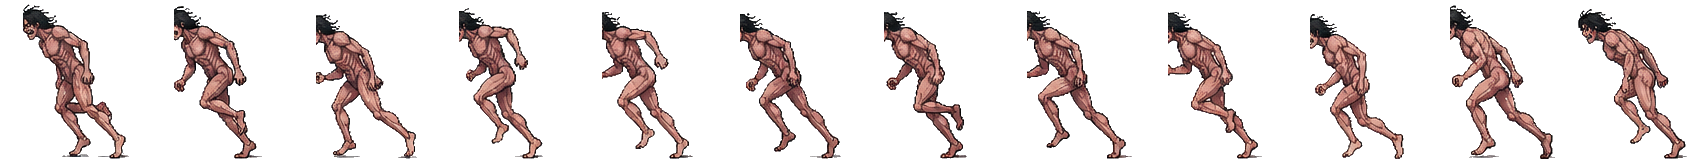
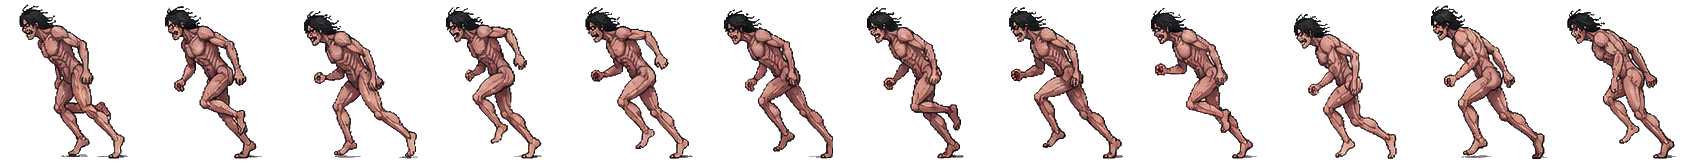
Run as the sharper titan, and cut titan frames along their seams
The Attack Titan now runs with the titan sheet's Eren, flipped to face right,
instead of the much smaller transformation sheet; smoke and emerging still come
from that one. Titan frames are cut at the emptiest column between two frames
instead of fixed midpoints, which sliced hair and fists.

diff --git a/src/client/render_shift.cpp b/src/client/render_shift.cpp
@@ -50,20 +50,21 @@ void Renderer::drawShift(int player_num, const PlayerState &player, bool is_me)
 {
     const PlayerAnim &state = player_anims[player_num];
     float time = state.form_clock.getElapsedTime().asSeconds();
-    const Animation *anim = &shift_sprite.run;
+    float center_x = display_positions[player_num].x + TITAN_FORM_WIDTH / 2;
+    uint8_t alpha = is_me ? 255 : 215;
 
     if (player.form == Form::Shifting) {
-        anim = time < shift_sprite.smoke.duration() ? &shift_sprite.smoke : &shift_sprite.emerge;
-        time = anim == &shift_sprite.smoke ? time : time - shift_sprite.smoke.duration();
-    } else {
-        time = run_phase;
-        // Heavy steps
-        if (static_cast<int>(time * 2.2f) != static_cast<int>((time - 1 / 60.f) * 2.2f))
-            shake = std::max(shake, is_me ? 0.08f : 0.04f);
+        const Animation &smoke = shift_sprite.smoke;
+        const Animation &anim = time < smoke.duration() ? smoke : shift_sprite.emerge;
+        float anim_time = &anim == &smoke ? time : time - smoke.duration();
+        drawShiftFrame(shift_sprite, anim, anim.frameAt(anim_time), center_x, alpha);
+        return;
     }
 
-    float center_x = display_positions[player_num].x + TITAN_FORM_WIDTH / 2;
-    drawShiftFrame(*anim, anim->frameAt(time), center_x, is_me ? 255 : 215);
+    // Heavy steps; the titan sheet runs to the left, flipped to run with you
+    if (static_cast<int>(run_phase * 2.2f) != static_cast<int>((run_phase - 1 / 60.f) * 2.2f))
+        shake = std::max(shake, is_me ? 0.08f : 0.04f);
+    drawShiftFrame(eren_titan, eren_titan.run, eren_titan.run.frameAt(run_phase), center_x, alpha, true);
 }
 
 // Bursting out: the smoke the titan left shrinks and fades where it stood
@@ -76,20 +77,22 @@ void Renderer::drawSteamPuff(int player_num)
     if (t >= 1)
         return;
     int frame = static_cast<int>((smoke.frames - 1) * (1 - t));
-    drawShiftFrame(smoke, frame, state.smoke_x, static_cast<uint8_t>(230 * (1 - t)));
+    drawShiftFrame(shift_sprite, smoke, frame, state.smoke_x, static_cast<uint8_t>(230 * (1 - t)));
 }
 
-void Renderer::drawShiftFrame(const Animation &anim, int frame, float center_x, uint8_t alpha)
+// Feet on the floor, `sheet`'s standing height scaled to the titan form's
+void Renderer::drawShiftFrame(const Character &sheet, const Animation &anim, int frame, float center_x, uint8_t alpha,
+                              bool flip)
 {
-    if (frame < 0 || shift_sprite.sheet.getSize().x == 0)
+    if (frame < 0 || sheet.sheet.getSize().x == 0)
         return;
 
-    float scale = tile_size * TITAN_FORM_HEIGHT / shift_sprite.body;
-    sf::Sprite sprite(shift_sprite.sheet);
+    float scale = tile_size * TITAN_FORM_HEIGHT / sheet.body;
+    sf::Sprite sprite(sheet.sheet);
 
-    sprite.setTextureRect(shift_sprite.frameRect(anim, frame));
-    sprite.setOrigin({shift_sprite.frame_size.x / 2.f, shift_sprite.feet});
-    sprite.setScale({scale, scale});
+    sprite.setTextureRect(sheet.frameRect(anim, frame));
+    sprite.setOrigin({sheet.frame_size.x / 2.f, sheet.feet});
+    sprite.setScale({flip ? -scale : scale, scale});
     sprite.setPosition(toScreen({center_x, static_cast<float>(world_map.getHeight())}));
     sprite.setColor(withAlpha(sf::Color::White, alpha));
     window.draw(sprite);

diff --git a/tools/slice_sheets.py b/tools/slice_sheets.py
@@ -22,6 +22,7 @@ ALPHA = 60          # pixels above this alpha are part of a sprite
 MERGE_GAP = 2       # body columns closer than this belong to the same frame
 MIN_WIDTH = 30      # thinner bodies are debris, not frames
 PAD = 4
+SHADOW_ROWS = 12    # bottom rows of a region where ground shadows join the frames
 
 
 def animation(region, fps, ground=False, mode="loop", frames=None, effects_ahead=False, splits=(), cuts=None):
@@ -34,15 +35,16 @@ def animation(region, fps, ground=False, mode="loop", frames=None, effects_ahead
     effects_ahead:  loose effects (muzzle flash, blade arc) belong to the body on their left;
                     by default they are trails and belong to the body on their right
     splits:         sheet x positions where touching frames must be cut apart
-    cuts:           for evenly laid sheets whose frames touch (ground shadows): the x positions
-                    of every frame boundary, frames are then plain columns between them
+    cuts:           for evenly laid sheets whose frames touch (ground shadows): frames are plain
+                    columns between boundaries; either the boundaries' x positions, or
+                    ("seams", frame centres) to cut at the emptiest column between two centres
     """
     return {"region": region, "fps": fps, "ground": ground, "mode": mode,
             "frames": frames, "effects_ahead": effects_ahead, "splits": splits, "cuts": cuts}
 
 
-# Frame boundaries of the titan sheet: halfway between its numbered labels
-TITAN_CUTS = [140, 255, 365, 477, 590, 701, 812, 922, 1036, 1150, 1265, 1385, 1536]
+# Titan sheet: frames sit above their numbered labels, cut at the emptiest column between two
+TITAN_CUTS = ("seams", [200, 310, 420, 535, 645, 757, 867, 978, 1094, 1207, 1323, 1447])
 
 # Sheet options:
 #   key_background: the "transparent" checkerboard is drawn in the picture, light greys become transparent
@@ -211,9 +213,22 @@ def column_frames(pixels, region, cuts):
     return frames
 
 
+def seam_cuts(pixels, region, centres):
+    """Boundaries at the emptiest column between consecutive frame centres, ground shadows ignored."""
+    x0, y0, x1, y1 = region
+    opaque = (pixels[y0:y1 - SHADOW_ROWS, :, 3] > ALPHA).sum(axis=0)
+    cuts = [x0]
+    for left, right in zip(centres, centres[1:]):
+        cuts.append(left + int(np.argmin(opaque[left:right])))
+    return cuts + [x1]
+
+
 def find_frames(pixels, spec, effects):
-    if spec["cuts"]:
-        return column_frames(pixels, spec["region"], spec["cuts"])
+    cuts = spec["cuts"]
+    if cuts and cuts[0] == "seams":
+        cuts = seam_cuts(pixels, spec["region"], cuts[1])
+    if cuts:
+        return column_frames(pixels, spec["region"], cuts)
     return split_frames(pixels, spec["region"], spec["effects_ahead"], spec["splits"], effects)
 
 

diff --git a/src/client/render.hpp b/src/client/render.hpp
@@ -127,7 +127,8 @@ private:
 
     // One per TitanType, and how many were on screen last frame (a new one stomps in)
     std::vector<Character> titan_sprites;
-    Character shift_sprite;     // Eren's transformation
+    Character shift_sprite;     // Eren's transformation: smoke and emerging
+    Character eren_titan;       // Eren's titan running, sharper than the transformation sheet's
     sf::Texture titan_face;     // on the power-up orb
     size_t titans_on_screen;
 
@@ -337,7 +338,8 @@ private:
     void updateForm(int player_num, const PlayerState &player, bool is_me);
     void drawShift(int player_num, const PlayerState &player, bool is_me);
     void drawSteamPuff(int player_num);
-    void drawShiftFrame(const Animation &anim, int frame, float center_x, uint8_t alpha);
+    void drawShiftFrame(const Character &sheet, const Animation &anim, int frame, float center_x, uint8_t alpha,
+                        bool flip = false);
     void renderShiftGauge(const PlayerState &player, int me);
 
 public:

diff --git a/src/client/render.cpp b/src/client/render.cpp
@@ -115,7 +115,8 @@ void Renderer::loadTitans()
 {
     static const char *dirs[TITAN_TYPES] = {"titan_female", "titan_armored"};
 
-    if (!shift_sprite.load("assets/eren_shift") || !titan_face.loadFromFile("assets/titan_eren/portrait.png"))
+    if (!shift_sprite.load("assets/eren_shift") || !eren_titan.load("assets/titan_eren") ||
+        !titan_face.loadFromFile("assets/titan_eren/portrait.png"))
         DEBUG_LOG("Failed to load the Attack Titan");
 
     titan_sprites.resize(TITAN_TYPES);
